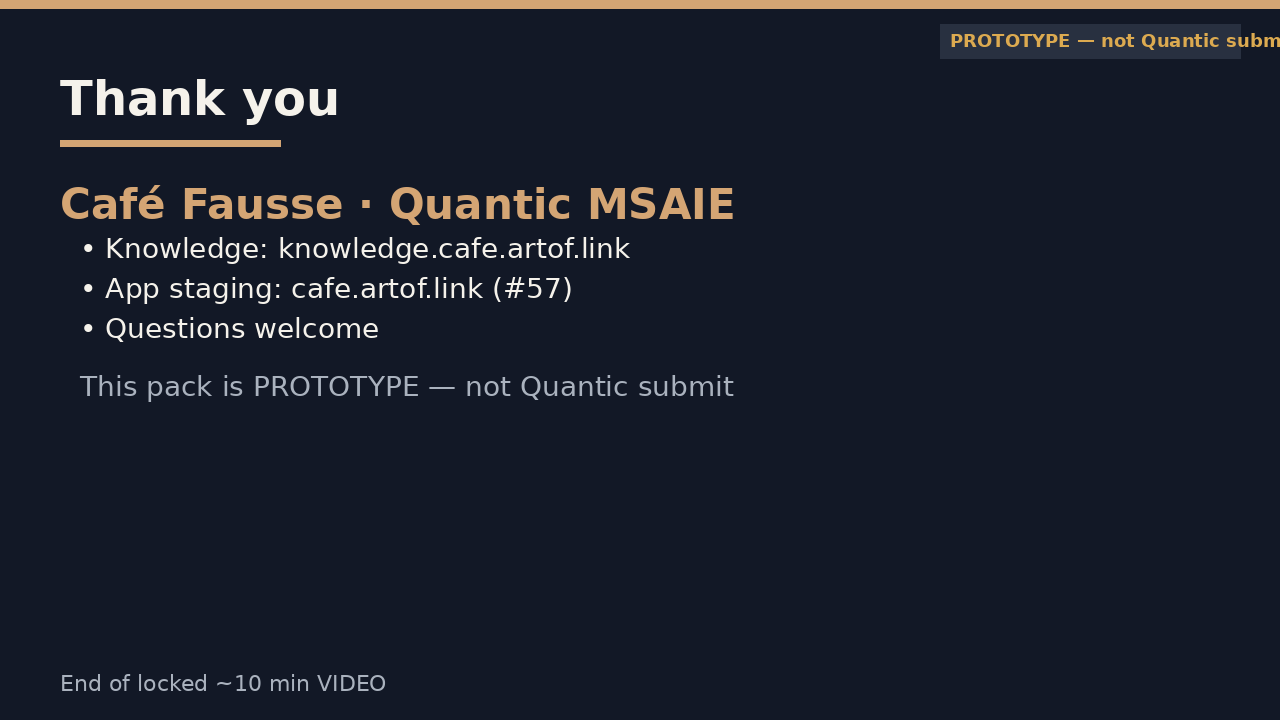
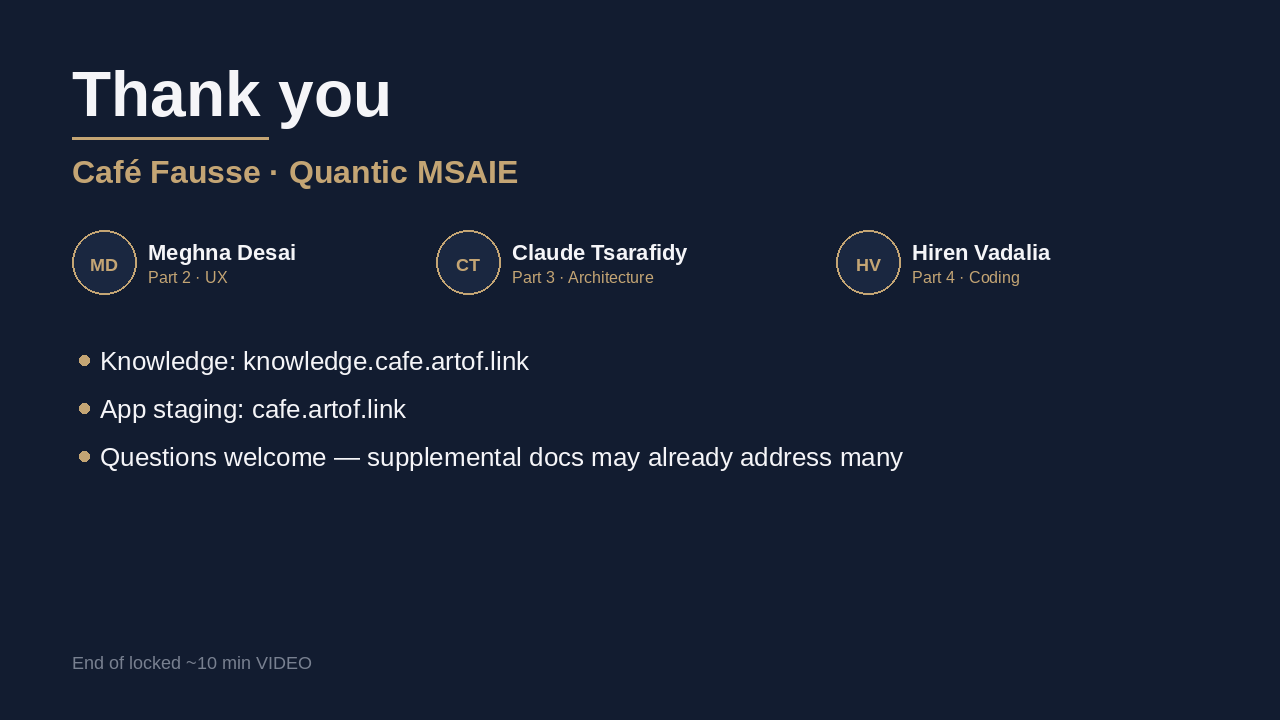
Knowledge: refresh Part 5 end card (no #57 / no PROTOTYPE)
Replace the Part 5 close card: drop (#57) and PROTOTYPE, add the
Meghna / Claude / Hiren cast row, and keep the longer questions line.
Closes #179.

diff --git a/knowledge/build.py b/knowledge/build.py
@@ -1746,6 +1746,53 @@ def assert_ux_wiring() -> None:
         fail("hld-local.svg must keep coding & iteration")
     if "not the shared demo URL" not in local_hld:
         fail("hld-local.svg must keep not the shared demo URL")
+    # Ratchet #179: Part 5 end card — no #57, no PROTOTYPE, longer questions line.
+    end_svg_name = "card-p5-end.svg"
+    end_png_name = "card-p5-end.png"
+    end_svg = ROOT / "assets" / end_svg_name
+    end_png = ROOT / "assets" / end_png_name
+    if not end_svg.is_file():
+        fail(f"missing knowledge/assets/{end_svg_name}")
+    if not end_png.is_file():
+        fail(f"missing knowledge/assets/{end_png_name}")
+    copied_end_svg = OUT / "assets" / end_svg_name
+    copied_end_png = OUT / "assets" / end_png_name
+    if not copied_end_svg.is_file():
+        fail(f"built site missing assets/{end_svg_name}")
+    if not copied_end_png.is_file():
+        fail(f"built site missing assets/{end_png_name}")
+    end_w, end_h = png_ihdr_size(end_png)
+    if end_w != 1280 or end_h != 720:
+        fail(f"knowledge/assets/{end_png_name} must be 1280×720 (got {end_w}×{end_h})")
+    end_svg_text = end_svg.read_text(encoding="utf-8")
+    for needle in (
+        "Thank you",
+        "Café Fausse · Quantic MSAIE",
+        "Meghna Desai",
+        "Part 2 · UX",
+        "Claude Tsarafidy",
+        "Part 3 · Architecture",
+        "Hiren Vadalia",
+        "Part 4 · Coding",
+        "Knowledge: knowledge.cafe.artof.link",
+        "App staging: cafe.artof.link",
+        "Questions welcome — supplemental docs may already address many",
+        "End of locked ~10 min VIDEO",
+    ):
+        if needle not in end_svg_text:
+            fail(f"{end_svg_name} must keep {needle!r}")
+    if "(#57)" in end_svg_text:
+        fail(f"{end_svg_name} must not keep (#57) on App staging")
+    if "PROTOTYPE" in end_svg_text:
+        fail(f"{end_svg_name} must not keep a PROTOTYPE badge or banner")
+    if "@" in end_svg_text:
+        fail(f"{end_svg_name} must not show an email")
+    part5_present_md = (ROOT / "part5-present.md").read_text(encoding="utf-8")
+    if "assets/card-p5-end.png" not in part5_present_md:
+        fail("part5-present.md must keep the card-p5-end.png pointer")
+    part5_present_html = (OUT / "part5-present.html").read_text(encoding="utf-8")
+    if "assets/card-p5-end.png" not in part5_present_html:
+        fail("part5-present.html must reference card-p5-end.png")
 
 
 def assert_svg_well_formed() -> None:

diff --git a/research/daily-briefs/2026-09-07.md b/research/daily-briefs/2026-09-07.md
@@ -1,5 +1,7 @@
 # 2026-09-07
 
+Europe/Berlin. Finding #179: Knowledge — refresh Part 5 end card [card-p5-end.png](../../knowledge/assets/card-p5-end.png) (1280×720) plus [card-p5-end.svg](../../knowledge/assets/card-p5-end.svg). Drop `(#57)` from App staging (just `cafe.artof.link`). Drop PROTOTYPE badge / “not Quantic submit”. Add cast row: **Meghna Desai** (Part 2 · UX) · **Claude Tsarafidy** (Part 3 · Architecture, no Pro badge) · **Hiren Vadalia** (Part 4 · Coding). Questions line: **Questions welcome — supplemental docs may already address many**. Keep Thank you / Café Fausse · Quantic MSAIE / Knowledge URL / End of locked ~10 min VIDEO. No email. [part5-present](../../knowledge/part5-present.md) still embeds the PNG. `build.py` ratchet. Do **not** edit other Part 5 cards or App code. One PR **Closes #179**. Knowledge + brief only. Author does not merge.
+
 Europe/Berlin. Finding #177: Knowledge — scrub **cts-ai** from camera [hld-local.svg](../../knowledge/assets/hld-local.svg). This session HTTPS **GET 200** on `https://knowledge.cafe.artof.link/assets/hld-local.svg` still had cts-ai in desc, subtitle, and the local-stack box label. Replace with **Local (dev)** so the HLD matches the rationale SVG / #176 table. Keep Vite + React, Flask API, local PostgreSQL, fail-closed without DB, coding & iteration · not the shared demo URL. Do **not** edit other SVGs, App code, or a site-wide rename. `build.py` ratchet. One PR **Closes #177**. Knowledge + brief only. Author does not merge.
 
 Europe/Berlin. Finding #175: Knowledge — camera-clean [part3-local-vs-aws](../../knowledge/part3-local-vs-aws.md) so the HTML table matches the live rationale SVG. Scrub **Lightsail** / **cts-ai** / Windows clone path from the main Local (dev) vs AWS MSAIE staging table, the architect Q&A row, related-assets Local HLD, and the camera-facing packed footer. Keep **Local (dev)** · Vite + Flask + local Postgres; **MSAIE staging** at **cafe.artof.link** tip **`73d202d`**; Caddy TLS → Flask → **on-box Postgres** (not shared RDS); temporary staging — not production forever. Off-camera host-vendor / machine nickname / Windows path stay in a footnote below the table (and [Honesty](../../knowledge/honesty.md)). Do **not** rename cts-ai across the site. Do **not** edit App code or SVGs. One PR **Closes #175**. Knowledge + brief only. Author does not merge.
